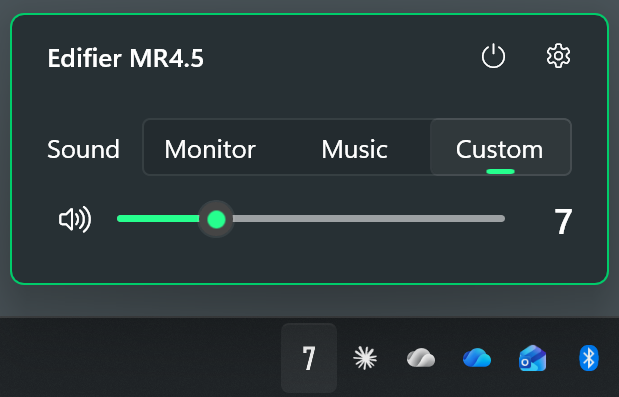
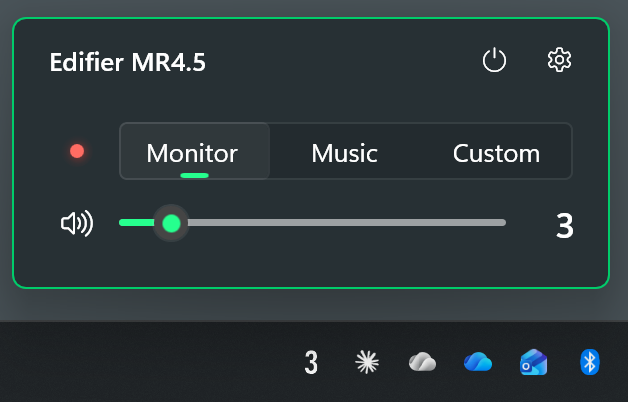
docs: README with new screenshots, an independent-project note and why Native AOT
The README opens with an Important note that the project is independent of Edifier, shows
the new panel and settings, and explains in a few lines why the app is built with Native
AOT. The measurements behind that choice are in docs/NATIVE-AOT.md.

diff --git a/README.md b/README.md
@@ -1,5 +1,9 @@
 # Edifier MR Volume
 
+> [!IMPORTANT]
+> This is an independent project. It is made for Edifier speakers, but it is not affiliated
+> with, endorsed by or supported by Edifier.
+
 An unofficial Windows app for **Edifier MR studio monitors** (MR4.5, MR3, MR5). It shows and
 sets the speakers' own hardware volume in the notification area and follows the physical volume
 knob live, and it sets the speakers' sound mode, equalizer, room tuning and power saving. It talks to the
@@ -7,13 +11,13 @@ speaker's Bluetooth LE control interface (the one the EDIFIER ConneX phone app u
 doesn't depend on the Windows volume slider. Control runs over its own Bluetooth LE link,
 separate from the audio input (tested with the speakers fed by a USB audio interface).
 
-The speaker volume in the notification area (the **7** on the left):
+The speaker volume in the notification area (the **3** on the left):
 
 ![Taskbar with the speaker volume shown as a number in the notification area](docs/images/tray.png)
 
 Click it for the panel:
 
-![Panel above the number: model name, power and settings buttons, sound mode, mute, volume slider and level](docs/images/flyout.png)
+![Panel above the number: model name, power and settings buttons, the sound-mode light and choices, mute, volume slider and level](docs/images/flyout.png)
 
 ## Supported speakers
 
@@ -33,8 +37,10 @@ control service it exposes.
   Scroll the mouse wheel over it to change the volume one step per notch.
   From the keyboard: Win+B, the arrow keys to the number, then Enter opens the panel and
   Shift+F10 the menu.
-- Click it for the panel: the sound mode (**Monitor**, **Music**, **Custom**), the volume slider,
-  a mute button and a button that turns the speakers off. The mouse wheel and arrow keys work
+- Click it for the panel: the sound mode (**Monitor**, **Music**, **Custom**) next to a light in
+  the colour the speaker shows for it (red, green, white; click the light for the next mode),
+  the volume slider, a mute button and a button that turns the speakers off. A click outside
+  closes it. The mouse wheel and arrow keys work
   too, and Esc closes it. When the app can't connect, the panel says why in plain words, with a
   button that helps (Reconnect, Bluetooth settings, Connect).
 - Settings, behind the gear:
@@ -67,6 +73,17 @@ control service it exposes.
 ![Settings and diagnostics behind the gear button](docs/images/settings.png)
 
 Built with WinUI 3 (Windows App SDK 2.6), .NET 10 and [H.NotifyIcon](https://github.com/HavenDV/H.NotifyIcon).
+
+### Why Native AOT
+
+The app runs all the time, so it should start fast and stay small. It is compiled with
+Microsoft's [Native AOT](https://learn.microsoft.com/dotnet/core/deploying/native-aot/): the C#
+code becomes machine code when the app is built, instead of being compiled while it runs, and no
+separate .NET runtime ships with it. We measured it against the usual .NET build (and a partial
+C++ rewrite) on the same PC: it starts in half the time (0.19 s instead of 0.40 s until the
+number shows), uses less than a third of the CPU when idle, about 40 MB less memory and 64 MB
+less disk. C++ would have saved only a little more. The numbers and how they were measured are
+in [docs/NATIVE-AOT.md](docs/NATIVE-AOT.md).
 
 ## Install
 
@@ -147,6 +164,7 @@ one click: **Actions › Release › Run workflow** (patch/minor/major); see
 | `.github/workflows` | CI (`ci.yml`) and tag-driven releases (`release.yml`) |
 | `.github/dependabot.yml` | Weekly update pull requests for NuGet, the .NET SDK and the Actions |
 | `docs/RELEASING.md` | Commit convention and release routine |
+| `docs/NATIVE-AOT.md` | Why the app is built with Native AOT: the measurements |
 
 ## Protocol, verified on an MR4.5 (firmware 1.0.0, 2026-11-15 and 16)
 

diff --git a/docs/NATIVE-AOT.md b/docs/NATIVE-AOT.md
@@ -1,0 +1,56 @@
+# Why Native AOT
+
+Edifier MR Volume runs all day in the notification area, so it should start fast and use little
+memory and CPU. In November 2026 we measured three builds of it on the same PC and picked
+**Native AOT**.
+
+## What Native AOT is
+
+[Native AOT](https://learn.microsoft.com/dotnet/core/deploying/native-aot/) is Microsoft's way to
+publish a .NET app as machine code. A normal .NET app ships its code as an intermediate language
+that a just-in-time (JIT) compiler turns into machine code while the app runs. With Native AOT
+that compiling happens once, when the app is built. Microsoft's own summary: Native AOT apps
+"have faster startup time and smaller memory footprints" and run without the .NET runtime
+installed.
+
+It comes with limits. Code can't be generated or loaded at run time, and everything is trimmed
+to what the app uses, so code that relies on reflection has to be written differently. For this
+app that meant reading `settings.json` with the JSON source generator and a few changes for
+C#/WinRT. Building it needs Visual Studio's **Desktop development with C++** workload, because the
+native linker comes from there.
+
+## The measurements
+
+Measured 2026-11-16 on the owner's PC with an MR4.5. Each build was started fresh, left to
+connect to the speaker, then left idle for 60 seconds.
+
+| | .NET (JIT) | **Native AOT** | C++ prototype |
+| --- | ---: | ---: | ---: |
+| Start, until the volume number shows | 402 ms | **191 ms** | 137 ms |
+| CPU used in 60 s idle | 109 ms | **31 ms** | 47 ms |
+| Memory: working set | 117 MB | **76 MB** | 67 MB |
+| Memory: private bytes | 72 MB | **64 MB** | 60 MB |
+| Memory: Task Manager's "Memory" column | | **21.7 MB** | 18.7 MB |
+| Threads | 31 | **22** | 19 |
+| Install size | 237 MB, 536 files | **173 MB, 294 files** | 151 MB, 288 files |
+
+- **Native AOT against the usual .NET build:** half the start time, less than a third of the
+  CPU when idle, 41 MB less working set and 64 MB less on disk. Same code and the same features.
+- **C++:** a first C++/WinRT build (WinUI 3, the same Windows App SDK) was made to compare. It
+  had the notification-area number, the Bluetooth connection and the main panel, but not yet the
+  settings, equalizer, room tuning or the other options. Even so, it saved only 3 to 9 MB of
+  memory and about 50 ms of start time over Native AOT. An empty C++ WinUI window alone already uses 80 MB of
+  working set, so most of the memory is WinUI itself, whatever language uses it. Rewriting the
+  whole app in C++ wasn't worth that, and the experiment was dropped.
+- CPU at this level is mostly noise: 31 ms in a minute is about 0.05 % of one core, and the C++
+  build's 47 ms isn't really worse.
+
+## How it is kept
+
+- `<PublishAot>true</PublishAot>` is set in `src/EdifierMrVolume/EdifierMrVolume.csproj`, so
+  every publish (`tools/install.ps1`, `tools/package.ps1`, CI and releases) is Native AOT.
+- The build has no trimming or AOT warnings left; new ones are worth fixing, not hiding, because
+  they point at code that may fail only in the published app.
+- CI starts the published app and fails if it ships the .NET runtime (`coreclr.dll`), so a
+  build can't fall back to JIT unnoticed. The ARM64 build is checked the same way on a Windows on
+  Arm runner.
